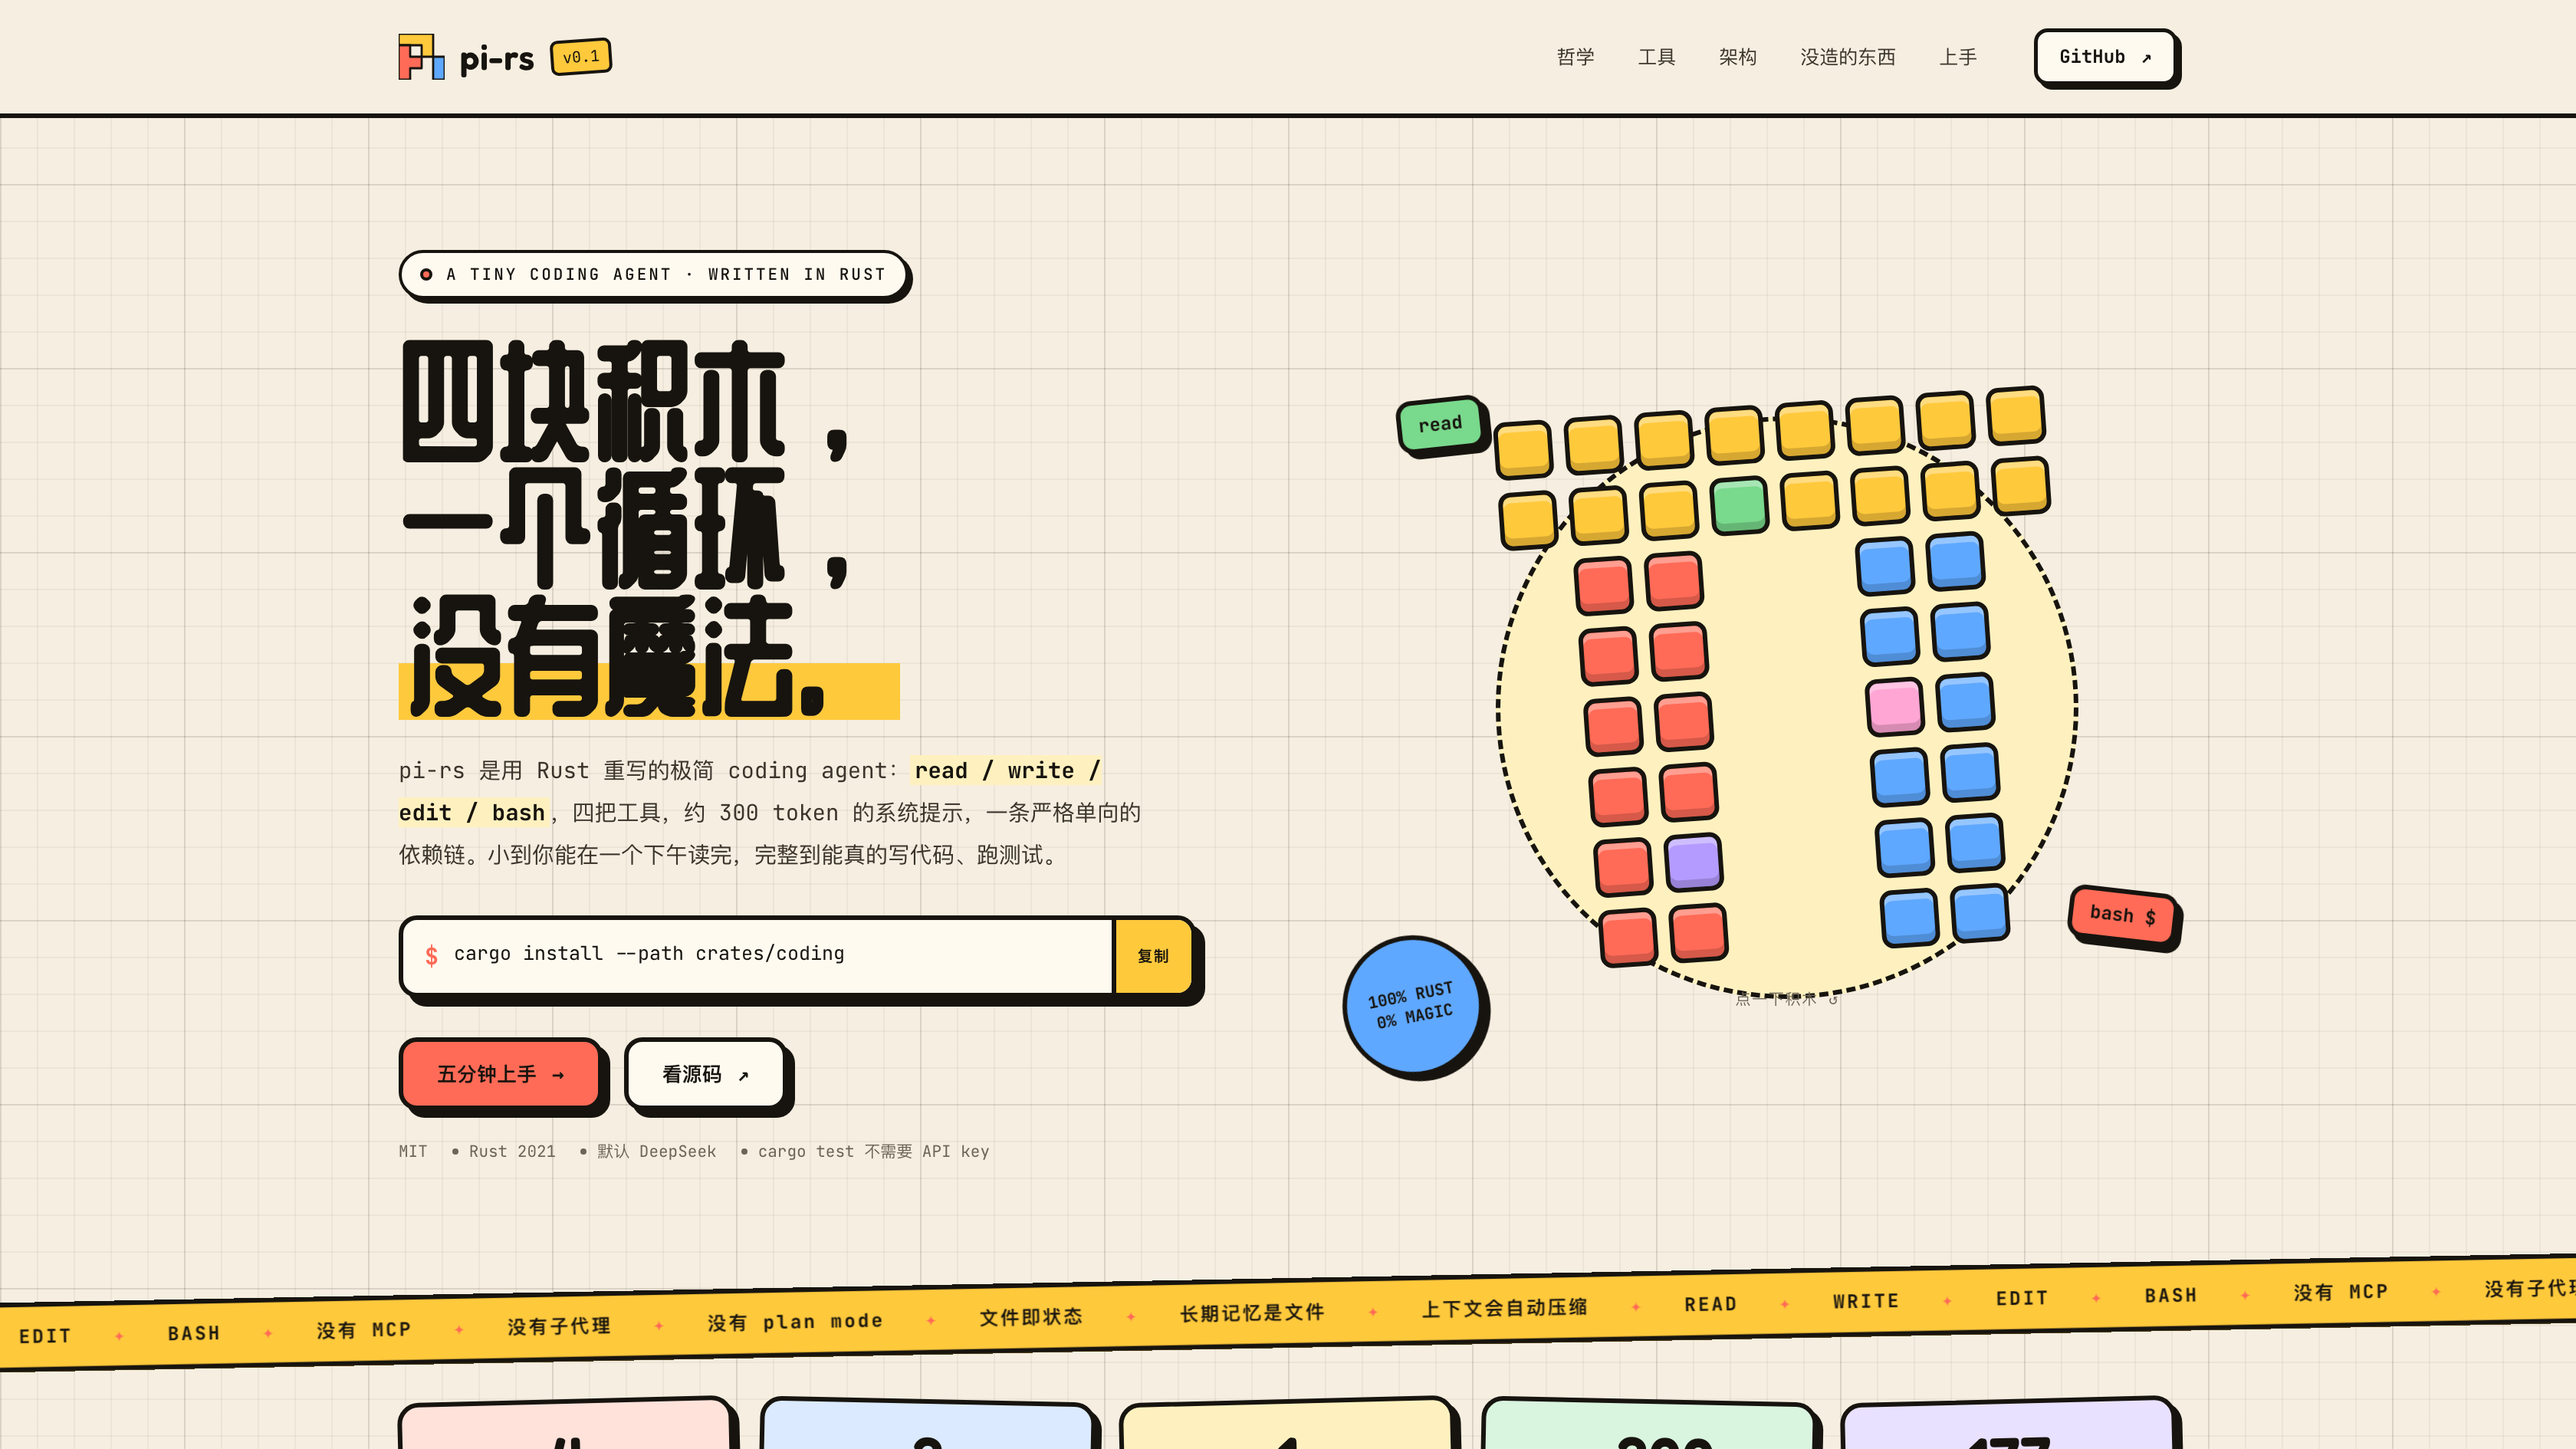
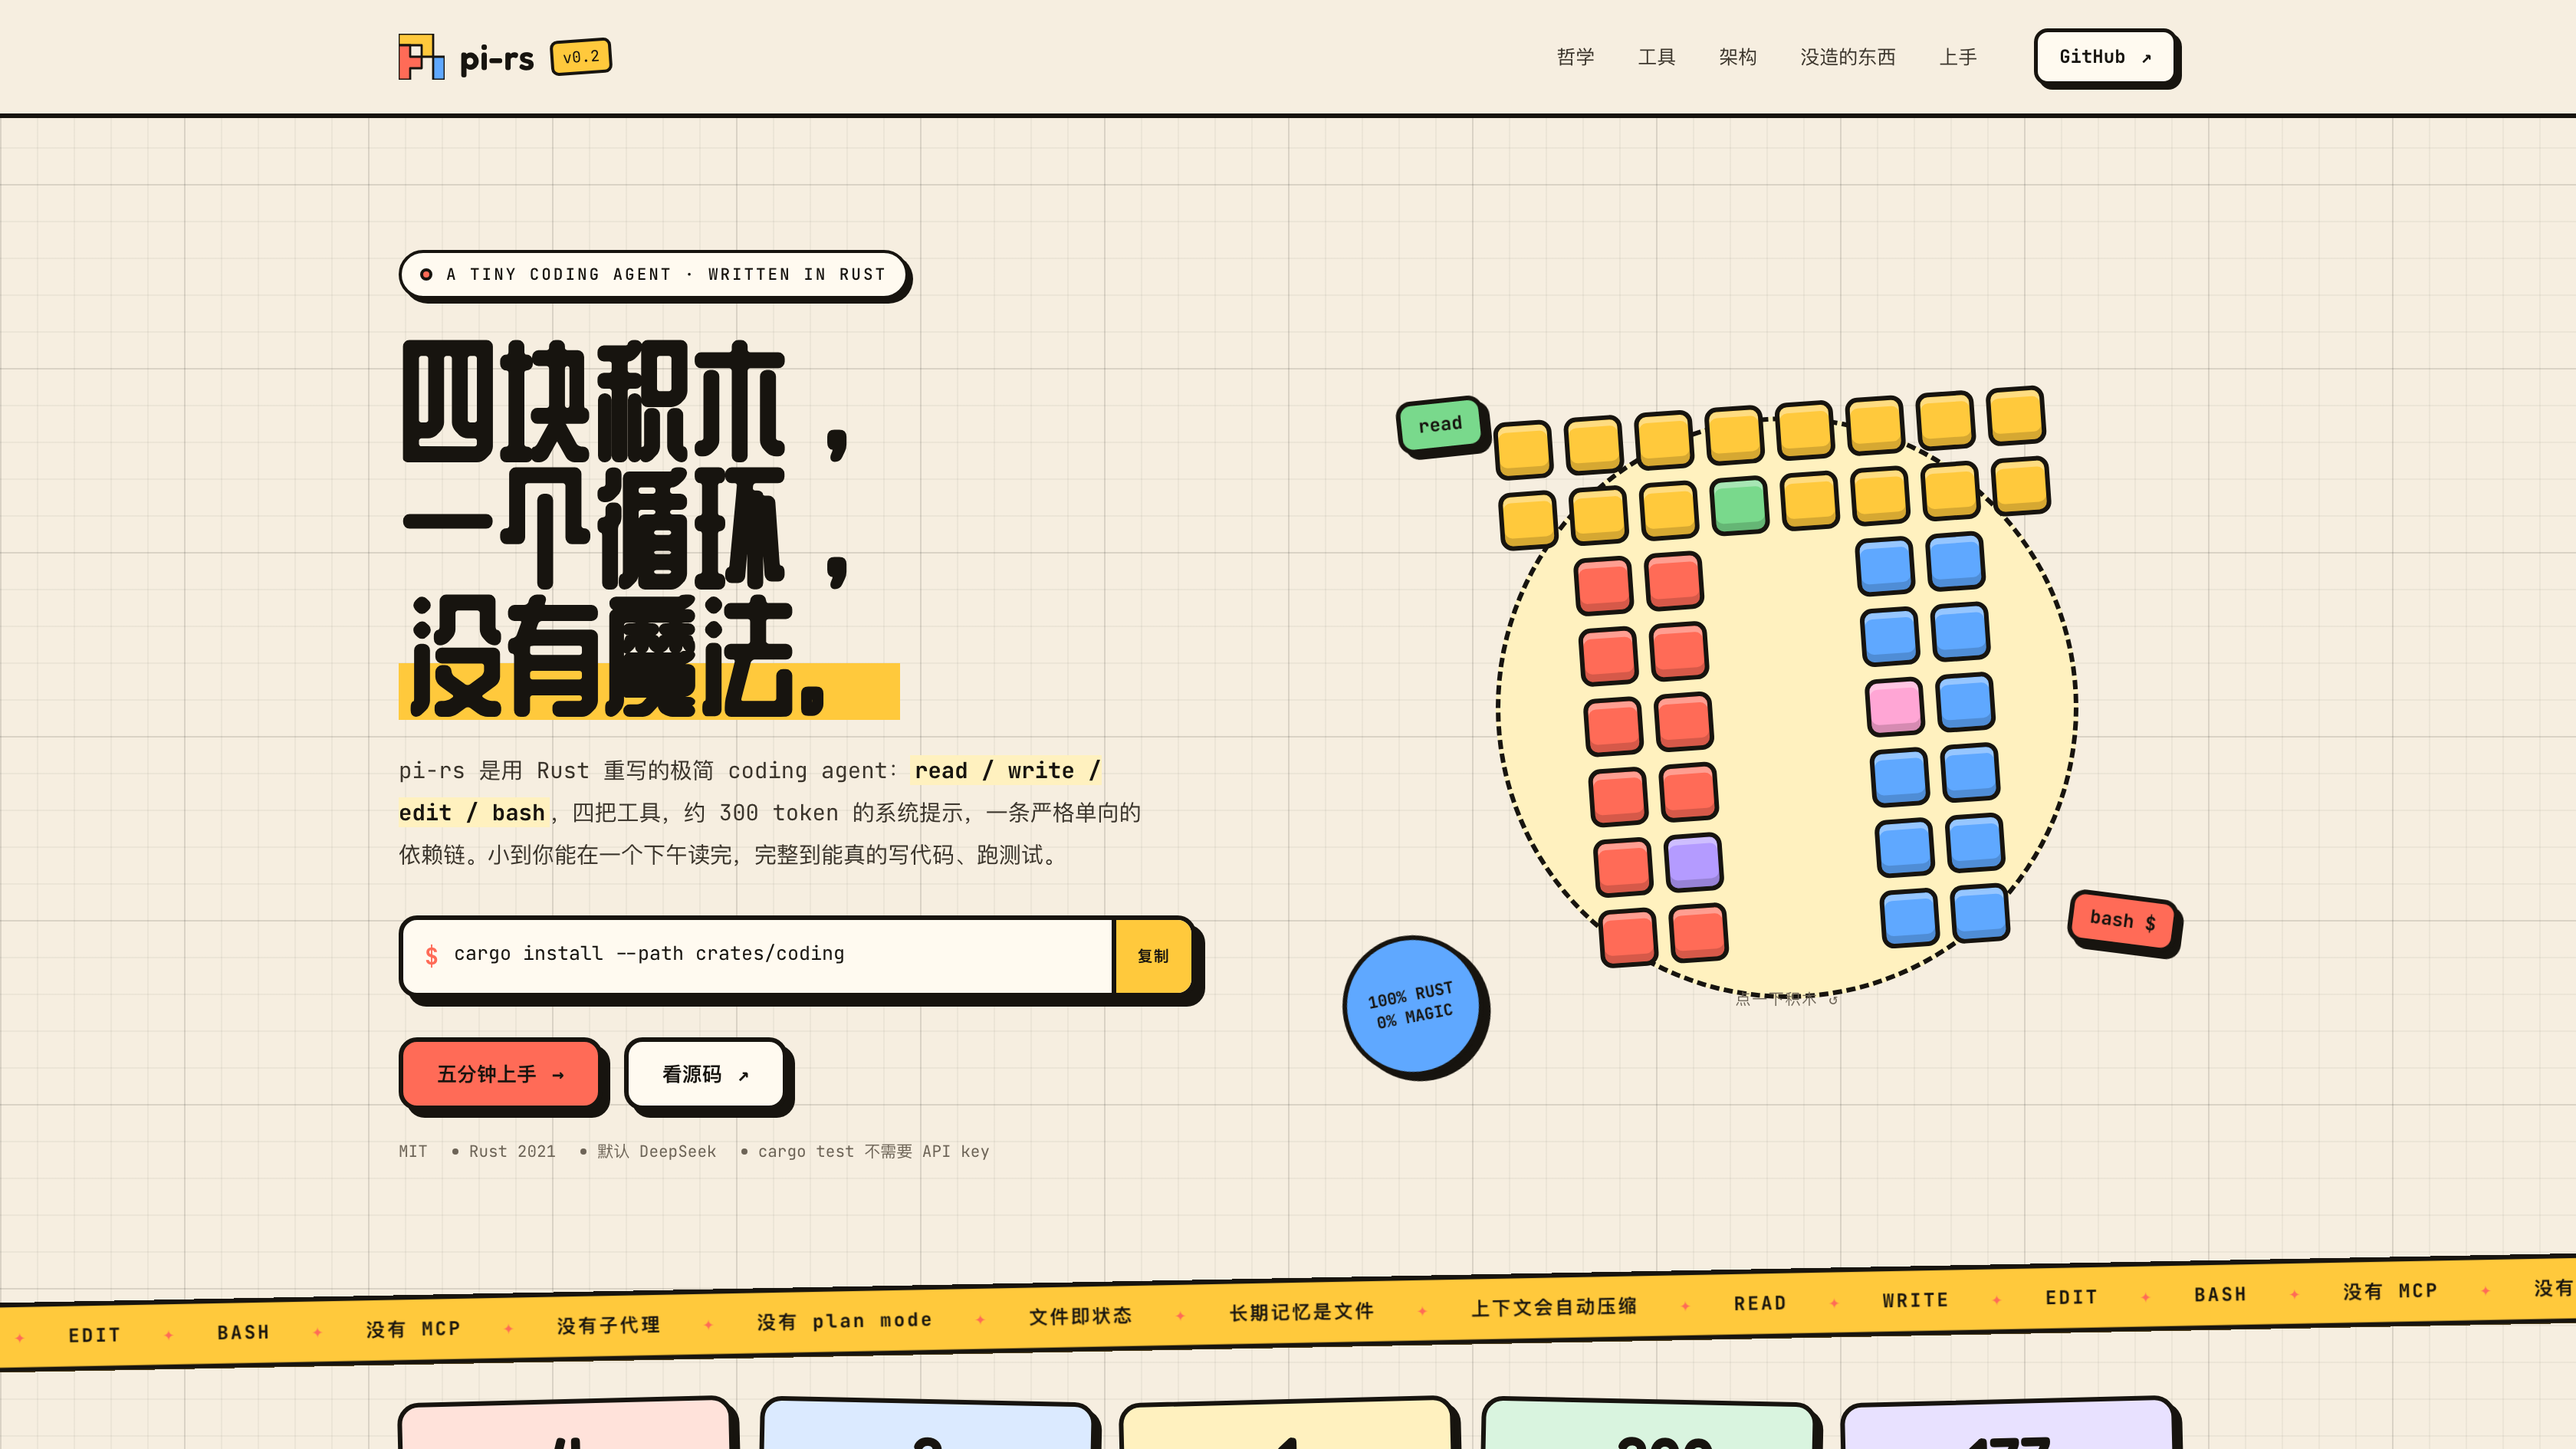
release: 0.2.0

diff --git a/docs/plan.md b/docs/plan.md
@@ -1,6 +1,6 @@
 # 计划
 
-> 状态日期：2026-10 · 版本：0.1.0
+> 状态日期：2026-10 · 版本：0.2.0
 > 这份文件是项目级路线图。单次任务的临时步骤写在根目录 `PLAN.md` / `TODO.md`，完成后吸收进这里或删除。
 
 ## 现在在哪
